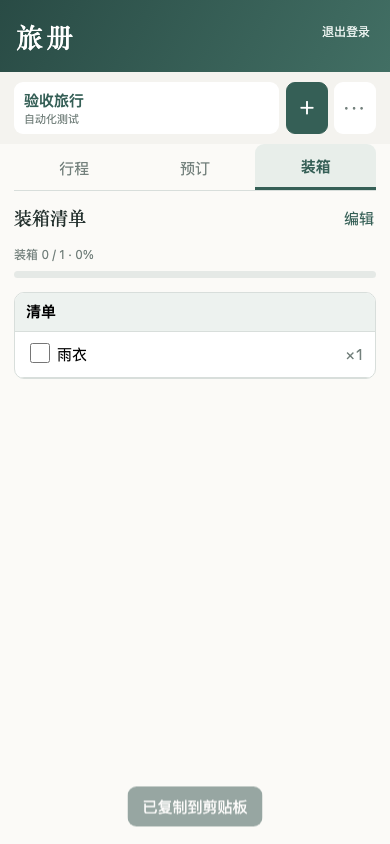
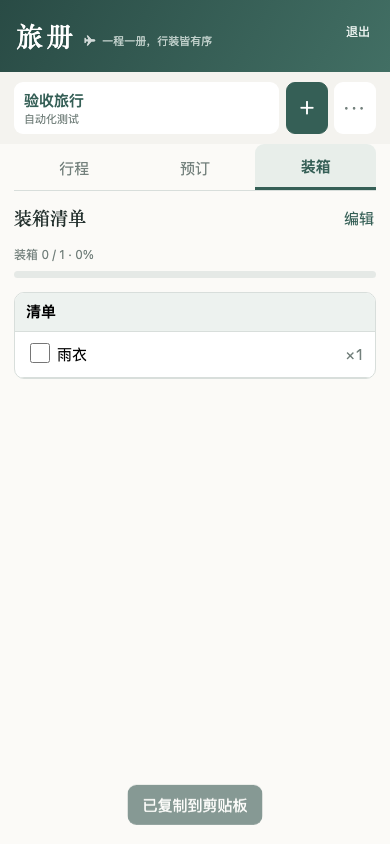
polish: simplify authenticated mobile header

diff --git a/app.js b/app.js
@@ -6,7 +6,7 @@ let state=structuredClone(seed),editing=false,syncTimer,cloudVersion=0,syncBlock
 function setSyncStatus(text,important=false){$('#syncStatus').textContent=text;document.querySelector('.account-bar')?.classList.toggle('important',important)}
 function localData(){try{return JSON.parse(localStorage.getItem(KEY))}catch{return null}}function normalize(s){s=s||structuredClone(seed);s.tab=s.tab||'itinerary';s.trips.forEach(t=>{if(!t.itinerary)t.itinerary=structuredClone(travelData.itinerary);if(!t.transport)t.transport=structuredClone(travelData.transport);if(!t.hotels)t.hotels=structuredClone(travelData.hotels);if(!t.emergency)t.emergency=structuredClone(travelData.emergency);if(!t.tour)t.tour=[];let documents=t.categories?.find(c=>c.id==='c3'||c.name==='证件行程');if(documents&&!documents.items.some(i=>i.name==='盖章本'))documents.items.push({id:'i3-stampbook',name:'盖章本',qty:1,packed:false})});return s}function validImport(s){return !!s&&typeof s==='object'&&Array.isArray(s.trips)&&s.trips.length>0&&s.trips.length<=50&&typeof s.active==='string'&&typeof s.tab==='string'&&s.trips.every(t=>t&&typeof t.id==='string'&&t.id&&typeof t.name==='string'&&['categories','itinerary','transport','hotels','emergency','tour'].every(k=>Array.isArray(t[k])))}function saveLocal(){localStorage.setItem(KEY,JSON.stringify(state))}function save(){saveLocal();renderList();renderProgress();queueSync()}function queueSync(){if(syncBlocked)return;clearTimeout(syncTimer);setSyncStatus('等待同步');syncTimer=setTimeout(syncNow,700)}async function syncNow(){try{if(syncBlocked)return;setSyncStatus('同步中…');let r=await fetch('/api/trips',{method:'PUT',headers:{'Content-Type':'application/json','If-Match':String(cloudVersion)},body:JSON.stringify(state)});if(r.status===401)return location.assign('/login');let result=await r.json();if(r.status===409){syncBlocked=true;setSyncStatus('存在云端冲突，请刷新页面',true);alert('数据已在其他设备更新。为避免覆盖，当前修改仅保存在本机；请导出备份后刷新页面。');return}if(!r.ok)throw Error(result.error||'同步失败');cloudVersion=result.version;setSyncStatus('已同步')}catch(e){setSyncStatus('同步失败（本机已保存）',true);console.error(e)}}async function init(){try{let r=await fetch('/api/trips');if(r.status===401)return location.assign('/login');if(!r.ok)throw Error('读取云端失败');let result=await r.json();cloudVersion=result.version||0;state=normalize(result.data||localData());saveLocal();if(!result.data)await syncNow()}catch(e){state=normalize(localData());saveLocal();setSyncStatus('离线模式',true);console.error(e)}render()}function uid(p){return p+Date.now().toString(36)+Math.random().toString(36).slice(2,5)}function esc(s=''){return String(s).replace(/[&<>]/g,c=>({'&':'&amp;','<':'&lt;','>':'&gt;'}[c]))}function attr(s=''){return esc(s).replace(/"/g,'&quot;')}
 function renderList(){let n=$('#tripList');n.innerHTML='';state.trips.forEach(t=>{let b=document.createElement('button');b.className=t.id===state.active?'active':'';b.innerHTML=`${esc(t.name)}<span class="trip-date">${esc(t.meta||'未填写日期地点')}</span>`;b.onclick=()=>{state.active=t.id;save();render()};n.append(b)})}
-function render(){let t=trip();document.body.dataset.tab=state.tab;$('#tripName').value=t.name;$('#tripMeta').value=t.meta||'';renderList();document.body.classList.toggle('editing',editing);$('#editToggle').textContent=editing?'完成':'编辑';$('#moduleTitle').textContent=state.tab==='itinerary'?'每日行程':state.tab==='bookings'?'预订与联系人':'装箱清单';document.querySelectorAll('#tabs button').forEach(b=>{b.classList.toggle('active',b.dataset.tab===state.tab);b.onclick=()=>{state.tab=b.dataset.tab;save();render()}});let root=$('#tabContent');root.innerHTML='';if(state.tab==='itinerary')root.append(tablePanel('每日行程',['日期','时间','活动','位置','联系人','备注'],t.itinerary));else if(state.tab==='bookings'){root.innerHTML='<div class="privacy-note">🔒 当前为公开预览：手机号和预订号已脱敏。接入家庭口令后可显示完整资料。</div><div class="booking-grid" id="bookingGrid"></div>';let g=$('#bookingGrid');g.append(tablePanel('交通',['客运公司','航班/车次','日期','出发地','出发时间','目的地','抵达时间','预订号'],t.transport,'wide'),tablePanel('住宿',['住宿','日期','礼宾部','电话/邮箱','地址','确认号','天数','总成本'],t.hotels,'wide'),tablePanel('紧急联系人',['联系人','电话','备注'],t.emergency),tablePanel('旅行团',['联系人','电话','备注'],t.tour));}else renderPacking(root,t);renderProgress()}
+function render(){let t=trip();document.body.dataset.tab=state.tab;$('#tripName').value=t.name;$('#tripMeta').value=t.meta||'';renderList();document.body.classList.toggle('editing',editing);$('#editToggle').textContent=editing?'完成':'编辑';$('#moduleTitle').textContent=state.tab==='itinerary'?'每日行程':state.tab==='bookings'?'预订与联系人':'装箱清单';document.querySelectorAll('#tabs button').forEach(b=>{b.classList.toggle('active',b.dataset.tab===state.tab);b.onclick=()=>{state.tab=b.dataset.tab;save();render()}});let root=$('#tabContent');root.innerHTML='';if(state.tab==='itinerary')root.append(tablePanel('每日行程',['日期','时间','活动','位置','联系人','备注'],t.itinerary));else if(state.tab==='bookings'){root.innerHTML='<div class="booking-grid" id="bookingGrid"></div>';let g=$('#bookingGrid');g.append(tablePanel('交通',['客运公司','航班/车次','日期','出发地','出发时间','目的地','抵达时间','预订号'],t.transport,'wide'),tablePanel('住宿',['住宿','日期','礼宾部','电话/邮箱','地址','确认号','天数','总成本'],t.hotels,'wide'),tablePanel('紧急联系人',['联系人','电话','备注'],t.emergency),tablePanel('旅行团',['联系人','电话','备注'],t.tour));}else renderPacking(root,t);renderProgress()}
 function tablePanel(title,heads,rows,cls=''){let sec=document.createElement('section');sec.className='table-block '+cls;sec.innerHTML=`<div class="section-title"><h2>${title}</h2><button class="edit-only">＋ 添加</button></div><div class="data-scroll"><table class="data-table"><thead><tr>${heads.map(h=>`<th>${h}</th>`).join('')}<th class="edit-only"></th></tr></thead><tbody></tbody></table></div>`;let body=sec.querySelector('tbody'),today=new Date().toLocaleDateString('en-CA');rows.forEach((r,ri)=>{let tr=document.createElement('tr');if(title==='每日行程'&&r[0]===today){tr.classList.add('today');tr.setAttribute('aria-label','今天')}tr.innerHTML=r.map((v,ci)=>`<td data-label="${attr(heads[ci])}"><div class="cell-view">${esc(v)}${/车次|地址|电话/.test(heads[ci])&&v?` <button class="copy-value" title="复制${heads[ci]}" aria-label="复制${heads[ci]}" data-copy="${attr(v)}">复制</button>`:''}</div><textarea class="cell-edit" rows="1" data-i="${ri}" data-j="${ci}" aria-label="${attr(heads[ci])}">${esc(v)}</textarea></td>`).join('')+`<td class="edit-only row-action" data-label="操作"><button class="remove-row">删除此条</button></td>`;tr.querySelectorAll('textarea').forEach(i=>{autoGrow(i);i.oninput=()=>autoGrow(i);i.onchange=()=>{rows[+i.dataset.i][+i.dataset.j]=i.value;save()}});tr.querySelectorAll('.copy-value').forEach(x=>x.onclick=()=>copyValue(x));tr.querySelector('.remove-row').onclick=()=>{rows.splice(ri,1);save();render()};body.append(tr)});if(!rows.length)body.innerHTML=`<tr><td colspan="${heads.length+1}" class="empty">暂无记录</td></tr>`;sec.querySelector('.section-title button').onclick=()=>{rows.push(Array(heads.length).fill(''));save();render()};return sec}
 let toastTimer;function toast(message,failed=false){let n=$('#toast');n.textContent=message;n.className=failed?'show failed':'show';clearTimeout(toastTimer);toastTimer=setTimeout(()=>n.className='',2200)}async function copyValue(button){try{await navigator.clipboard.writeText(button.dataset.copy);button.textContent='已复制';toast('已复制到剪贴板');setTimeout(()=>button.textContent='复制',1600)}catch(e){toast('复制失败，请长按或选中文字复制',true);console.error(e)}}
 function autoGrow(el){el.style.height='auto';el.style.height=el.scrollHeight+'px'}

diff --git a/index.html b/index.html
@@ -1,5 +1,5 @@
 <!doctype html><html lang="zh-CN"><head><meta charset="utf-8"><meta name="viewport" content="width=device-width,initial-scale=1"><meta name="theme-color" content="#355f56"><title>旅册</title><link rel="stylesheet" href="style.css"></head><body>
-<header><div><span class="eyebrow">TRAVEL PLANNER</span><h1>旅册</h1><p id="subtitle">一程一册，行装皆有序。</p></div><button id="logout" aria-label="账户与退出">退出登录</button></header>
+<header><div><span class="eyebrow">TRAVEL PLANNER</span><div class="brand-line"><h1>旅册</h1><span class="brand-icon" aria-hidden="true">✈</span><p id="subtitle">一程一册，行装皆有序</p></div></div><button id="logout" aria-label="退出账户">退出</button></header>
 <main><aside><div class="aside-title"><b>旅行计划</b></div><div class="trip-switcher"><nav id="tripList"></nav><div class="trip-actions"><button class="primary" id="newTrip" aria-label="新建旅行">＋<span> 新建</span></button><details class="menu toolbar-menu"><summary aria-label="更多操作">•••</summary><div class="menu-panel"><button id="duplicate">复制当前旅行</button><button id="printTrip">打印</button><button id="reset">清空装箱勾选</button><div class="menu-separator"></div><button class="danger" id="deleteTrip">删除旅行</button></div></details></div></div><div class="account-bar"><span>云端家庭共享 · <span id="syncStatus">正在读取…</span></span></div></aside>
 <section class="workspace"><div class="toolbar desktop-toolbar"><div><input id="tripName" aria-label="旅行名称"><input id="tripMeta" aria-label="日期地点" placeholder="日期 · 地点"></div></div><div class="tabs" id="tabs"><button data-tab="itinerary">行程</button><button data-tab="bookings"><span class="desktop-label">预订与联系人</span><span class="mobile-label">预订</span></button><button data-tab="packing"><span class="desktop-label">装箱清单</span><span class="mobile-label">装箱</span></button></div><div class="module-bar"><strong id="moduleTitle">每日行程</strong><button id="editToggle">编辑</button></div><div class="progress"><span id="progressText"></span><div><i id="progressBar"></i></div></div><div id="tabContent"></div></section></main>
 <dialog id="tripDialog"><form method="dialog"><h2>新建旅行</h2><label>旅行名称<input id="newName" required placeholder="例如：山海行"></label><label>日期与地点<input id="newMeta" placeholder="2026.10 · 厦门"></label><menu><button value="cancel">取消</button><button value="default" id="createTrip" class="primary">创建</button></menu></form></dialog>

diff --git a/style.css b/style.css
@@ -143,11 +143,15 @@ header #logout:hover{border-color:#fff;background:#ffffff20}
 
 /* Mobile v2: purpose-built hierarchy instead of stacking the desktop shell. */
 .mobile-label,.module-bar{display:none}
+.brand-line{display:flex;align-items:baseline;gap:10px}.brand-line h1,.brand-line p{margin:0}.brand-icon{font-size:16px;opacity:.78}
 @media(max-width:680px){
   header{min-height:72px;height:72px;padding:13px 16px;flex-wrap:nowrap}
   header>div{display:block}
-  header .eyebrow,header #subtitle{display:none}
+  header .eyebrow{display:none}
+  header .brand-line{display:flex;align-items:baseline;gap:7px;white-space:nowrap}
   header h1{font-size:27px;line-height:1;letter-spacing:.12em}
+  header .brand-icon{font-size:12px}
+  header #subtitle{display:block;font-size:11px;line-height:1;color:#e1ebe7;opacity:.82;letter-spacing:0}
   header #logout{top:18px;right:15px;border:0;background:transparent;padding:5px;color:#e8f0ed;font-size:12px}
   main{min-height:calc(100vh - 72px)}
   aside{padding:10px 14px;border-bottom:0;overflow:visible}
